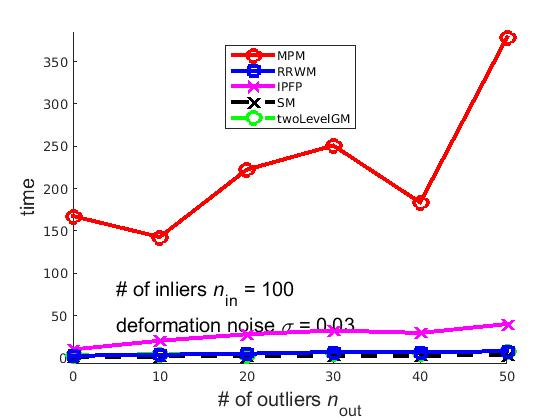
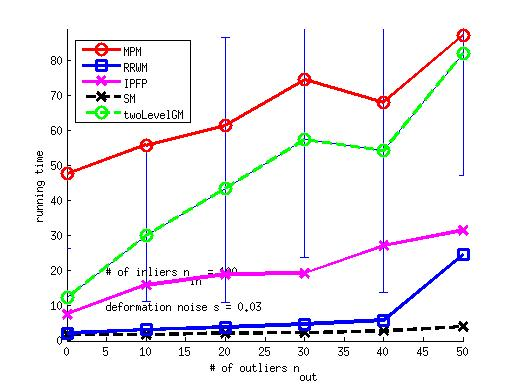
Master/IterativeApproach/Testing/SyntheticPointSet_Test
ver4.3
 updated results of the outlier test

ver4.2, ver4.2.1 ver4.3
 show variation of the 2levelGM on the images

diff --git a/Master/IterativeApproach/Testing/SyntheticPointSet_Test/TwoLevelGM_ver4.2.1/do_PointMatchingTest.m b/Master/IterativeApproach/Testing/SyntheticPointSet_Test/TwoLevelGM_ver4.2.1/do_PointMatchingTest.m
@@ -32,6 +32,10 @@ plotSet.font = '\fontname{Arial}'; % Font default
 %% Test Methods
 Accuracy = zeros(length(settings{Con}{4}), length(methods), Set.nTest);
 MatchScore = zeros(length(settings{Con}{4}), length(methods), Set.nTest);
+
+% etikhonc, 25.08.2015, time for initialization of the problem
+Time_init = zeros(length(settings{Con}{4}), 2, Set.nTest);
+
 Time = zeros(length(settings{Con}{4}), length(methods), Set.nTest);
 MatchScoreRaw = zeros(length(settings{Con}{4}), length(methods), Set.nTest);
 MatchScoreMP = zeros(length(settings{Con}{4}), length(methods), Set.nTest);
@@ -41,7 +45,12 @@ fprintf(['Experiment starts: ' num2str(t_start(4)) ':' num2str(t_start(5)) ':' n
 for kk = 1:Set.nTest, fprintf('Test: %d of %d ', kk, Set.nTest);
     for i = 1:length(settings{Con}{4})
         eval(['Set.' settings{Con}{3} '=' num2str(settings{Con}{4}(i)) ';']);
-        problem = makePointMatchingProblem(Set);
+        
+        % etikhonc, 25.08.2015
+        [problem, time_s, time_g] = makePointMatchingProblem(Set);
+        Time_init(i,1,kk) = time_s;
+        Time_init(i,2,kk) = time_g;
+        
         eval(['Set.' settings{Con}{3} '= settings{' num2str(Con) '}{4};']);
         for j = 1:length(methods)
             [Accuracy(i,j,kk) MatchScore(i,j,kk) Time(i,j,kk) tmpX tmpXraw MatchScoreRaw(i,j,kk) MatchScoreMP(i,j,kk)] ...
@@ -66,6 +75,27 @@ meanMatchScoreMP = mean(MatchScoreMP,3);
 
 %%
 handleCount = 0;
-yData = meanAccuracy; yLabelText = 'accuracy'; plotResults;
-yData = meanMatchScore; yLabelText = 'objective score'; plotResults;
-yData = meanTime; yLabelText = 'time'; plotResults;
+yData = meanAccuracy; 
+L = meanAccuracy-min(Accuracy,[],3);
+U = max(Accuracy,[],3)-meanAccuracy; yLabelText = 'accuracy'; plotResults;
+
+yData = meanMatchScore;
+L = meanMatchScore-min(MatchScore,[],3);
+U = max(MatchScore,[],3)-meanMatchScore; yLabelText = 'objective score'; plotResults;
+
+yData = meanTime;
+L = meanTime-min(Time,[],3);
+U = max(Time,[],3)-meanTime;
+yLabelText = 'running time'; plotResults;
+
+%%
+T1 = repmat(Time_init(:,1,:), 1, length(methods)-1,1);
+T2 = Time_init(:,2,:);
+Time1 = Time + [T1, T2];
+
+meanTime1 = mean(Time1,3);
+
+yData = meanTime1;
+L = meanTime1-min(Time1,[],3);
+U = max(Time1,[],3)-meanTime1;
+yLabelText = 'running time + initialization'; plotResults;

diff --git a/Master/IterativeApproach/Testing/SyntheticPointSet_Test/TwoLevelGM_ver4.2/do_PointMatchingTest.m b/Master/IterativeApproach/Testing/SyntheticPointSet_Test/TwoLevelGM_ver4.2/do_PointMatchingTest.m
@@ -32,6 +32,10 @@ plotSet.font = '\fontname{Arial}'; % Font default
 %% Test Methods
 Accuracy = zeros(length(settings{Con}{4}), length(methods), Set.nTest);
 MatchScore = zeros(length(settings{Con}{4}), length(methods), Set.nTest);
+
+% etikhonc, 25.08.2015, time for initialization of the problem
+Time_init = zeros(length(settings{Con}{4}), 2, Set.nTest);
+
 Time = zeros(length(settings{Con}{4}), length(methods), Set.nTest);
 MatchScoreRaw = zeros(length(settings{Con}{4}), length(methods), Set.nTest);
 MatchScoreMP = zeros(length(settings{Con}{4}), length(methods), Set.nTest);
@@ -41,7 +45,12 @@ fprintf(['Experiment starts: ' num2str(t_start(4)) ':' num2str(t_start(5)) ':' n
 for kk = 1:Set.nTest, fprintf('Test: %d of %d ', kk, Set.nTest);
     for i = 1:length(settings{Con}{4})
         eval(['Set.' settings{Con}{3} '=' num2str(settings{Con}{4}(i)) ';']);
-        problem = makePointMatchingProblem(Set);
+        
+        % etikhonc, 25.08.2015
+        [problem, time_s, time_g] = makePointMatchingProblem(Set);
+        Time_init(i,1,kk) = time_s;
+        Time_init(i,2,kk) = time_g;
+        
         eval(['Set.' settings{Con}{3} '= settings{' num2str(Con) '}{4};']);
         for j = 1:length(methods)
             [Accuracy(i,j,kk) MatchScore(i,j,kk) Time(i,j,kk) tmpX tmpXraw MatchScoreRaw(i,j,kk) MatchScoreMP(i,j,kk)] ...
@@ -66,6 +75,27 @@ meanMatchScoreMP = mean(MatchScoreMP,3);
 
 %%
 handleCount = 0;
-yData = meanAccuracy; yLabelText = 'accuracy'; plotResults;
-yData = meanMatchScore; yLabelText = 'objective score'; plotResults;
-yData = meanTime; yLabelText = 'time'; plotResults;
+yData = meanAccuracy; 
+L = meanAccuracy-min(Accuracy,[],3);
+U = max(Accuracy,[],3)-meanAccuracy; yLabelText = 'accuracy'; plotResults;
+
+yData = meanMatchScore;
+L = meanMatchScore-min(MatchScore,[],3);
+U = max(MatchScore,[],3)-meanMatchScore; yLabelText = 'objective score'; plotResults;
+
+yData = meanTime;
+L = meanTime-min(Time,[],3);
+U = max(Time,[],3)-meanTime;
+yLabelText = 'running time'; plotResults;
+
+%%
+T1 = repmat(Time_init(:,1,:), 1, length(methods)-1,1);
+T2 = Time_init(:,2,:);
+Time1 = Time + [T1, T2];
+
+meanTime1 = mean(Time1,3);
+
+yData = meanTime1;
+L = meanTime1-min(Time1,[],3);
+U = max(Time1,[],3)-meanTime1;
+yLabelText = 'running time + initialization'; plotResults;

diff --git a/Master/IterativeApproach/Testing/SyntheticPointSet_Test/TwoLevelGM_ver4.3/do_PointMatchingTest.m b/Master/IterativeApproach/Testing/SyntheticPointSet_Test/TwoLevelGM_ver4.3/do_PointMatchingTest.m
@@ -75,9 +75,18 @@ meanMatchScoreMP = mean(MatchScoreMP,3);
 
 %%
 handleCount = 0;
-yData = meanAccuracy; yLabelText = 'accuracy'; plotResults;
-yData = meanMatchScore; yLabelText = 'objective score'; plotResults;
-yData = meanTime; yLabelText = 'running time'; plotResults;
+yData = meanAccuracy; 
+L = meanAccuracy-min(Accuracy,[],3);
+U = max(Accuracy,[],3)-meanAccuracy; yLabelText = 'accuracy'; plotResults;
+
+yData = meanMatchScore;
+L = meanMatchScore-min(MatchScore,[],3);
+U = max(MatchScore,[],3)-meanMatchScore; yLabelText = 'objective score'; plotResults;
+
+yData = meanTime;
+L = meanTime-min(Time,[],3);
+U = max(Time,[],3)-meanTime;
+yLabelText = 'running time'; plotResults;
 
 %%
 T1 = repmat(Time_init(:,1,:), 1, length(methods)-1,1);
@@ -86,4 +95,7 @@ Time1 = Time + [T1, T2];
 
 meanTime1 = mean(Time1,3);
 
-yData = meanTime1; yLabelText = 'running time + initialization'; plotResults;
+yData = meanTime1;
+L = meanTime1-min(Time1,[],3);
+U = max(Time1,[],3)-meanTime1;
+yLabelText = 'running time + initialization'; plotResults;

diff --git a/Master/IterativeApproach/Testing/SyntheticPointSet_Test/TwoLevelGM_ver4.2.1/utils/plotResults.m b/Master/IterativeApproach/Testing/SyntheticPointSet_Test/TwoLevelGM_ver4.2.1/utils/plotResults.m
@@ -7,7 +7,10 @@ for k = 1:length(methods)
         'LineStyle', methods(k).lineStyle, ...
         'Marker', methods(k).marker, ...
         'MarkerSize', plotSet.markerSize);
+    
 end
+errorbar(settings{Con}{4}, yData(:,end), L(:,end), U(:,end));
+
 Xmin = min(settings{Con}{4}); Xmax = max(settings{Con}{4});
 Ymin = min(yData(:)); Ymax = max(yData(:));
 axis([Xmin Xmax Ymin-0.02*(Ymax-Ymin) Ymax+0.02*(Ymax-Ymin)]);
@@ -32,4 +35,4 @@ for k = length(methods):-1:1
 end
 hold off;
 
-clear Xmin Xmax Ymin Ymax yData yLabelText hLegend k
+clear Xmin Xmax Ymin Ymax yData L U yLabelText hLegend k

diff --git a/Master/IterativeApproach/Testing/SyntheticPointSet_Test/TwoLevelGM_ver4.2/utils/plotResults.m b/Master/IterativeApproach/Testing/SyntheticPointSet_Test/TwoLevelGM_ver4.2/utils/plotResults.m
@@ -7,7 +7,10 @@ for k = 1:length(methods)
         'LineStyle', methods(k).lineStyle, ...
         'Marker', methods(k).marker, ...
         'MarkerSize', plotSet.markerSize);
+    
 end
+errorbar(settings{Con}{4}, yData(:,end), L(:,end), U(:,end));
+
 Xmin = min(settings{Con}{4}); Xmax = max(settings{Con}{4});
 Ymin = min(yData(:)); Ymax = max(yData(:));
 axis([Xmin Xmax Ymin-0.02*(Ymax-Ymin) Ymax+0.02*(Ymax-Ymin)]);
@@ -32,4 +35,4 @@ for k = length(methods):-1:1
 end
 hold off;
 
-clear Xmin Xmax Ymin Ymax yData yLabelText hLegend k
+clear Xmin Xmax Ymin Ymax yData L U yLabelText hLegend k

diff --git a/Master/IterativeApproach/Testing/SyntheticPointSet_Test/TwoLevelGM_ver4.3/utils/plotResults.m b/Master/IterativeApproach/Testing/SyntheticPointSet_Test/TwoLevelGM_ver4.3/utils/plotResults.m
@@ -7,7 +7,10 @@ for k = 1:length(methods)
         'LineStyle', methods(k).lineStyle, ...
         'Marker', methods(k).marker, ...
         'MarkerSize', plotSet.markerSize);
+    
 end
+errorbar(settings{Con}{4}, yData(:,end), L(:,end), U(:,end));
+
 Xmin = min(settings{Con}{4}); Xmax = max(settings{Con}{4});
 Ymin = min(yData(:)); Ymax = max(yData(:));
 axis([Xmin Xmax Ymin-0.02*(Ymax-Ymin) Ymax+0.02*(Ymax-Ymin)]);
@@ -32,4 +35,4 @@ for k = length(methods):-1:1
 end
 hold off;
 
-clear Xmin Xmax Ymin Ymax yData yLabelText hLegend k
+clear Xmin Xmax Ymin Ymax yData L U yLabelText hLegend k

diff --git a/Master/IterativeApproach/Testing/SyntheticPointSet_Test/TwoLevelGM_ver4.3/setPointMatching.m b/Master/IterativeApproach/Testing/SyntheticPointSet_Test/TwoLevelGM_ver4.3/setPointMatching.m
@@ -1,6 +1,6 @@
 %% Configuration Settings
 nSet=0; %% Display (bool) / Display Name / Variable Name / Variable Value, Vector, String
-nSet=nSet+1; settings{nSet} = {0, '# of tests', 'nTest', 2};
+nSet=nSet+1; settings{nSet} = {0, '# of tests', 'nTest', 10};
 switch 1
     case 1 % Outlier Test
         nSet=nSet+1; settings{nSet} = {1, '# of inliers \itn_{\rmin}\rm', 'nInlier', 100};
